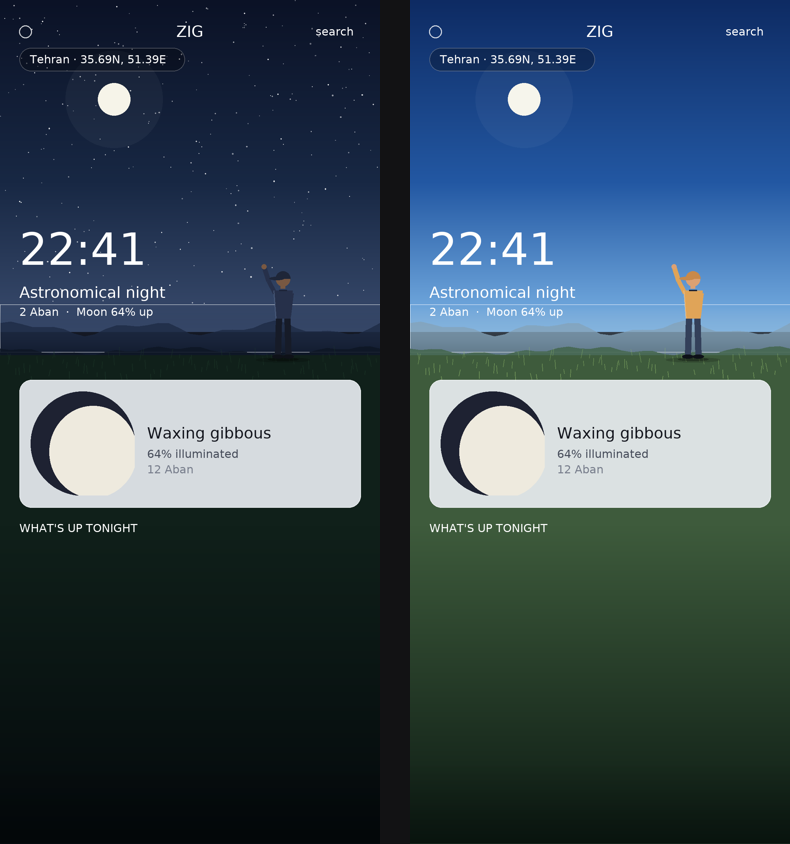
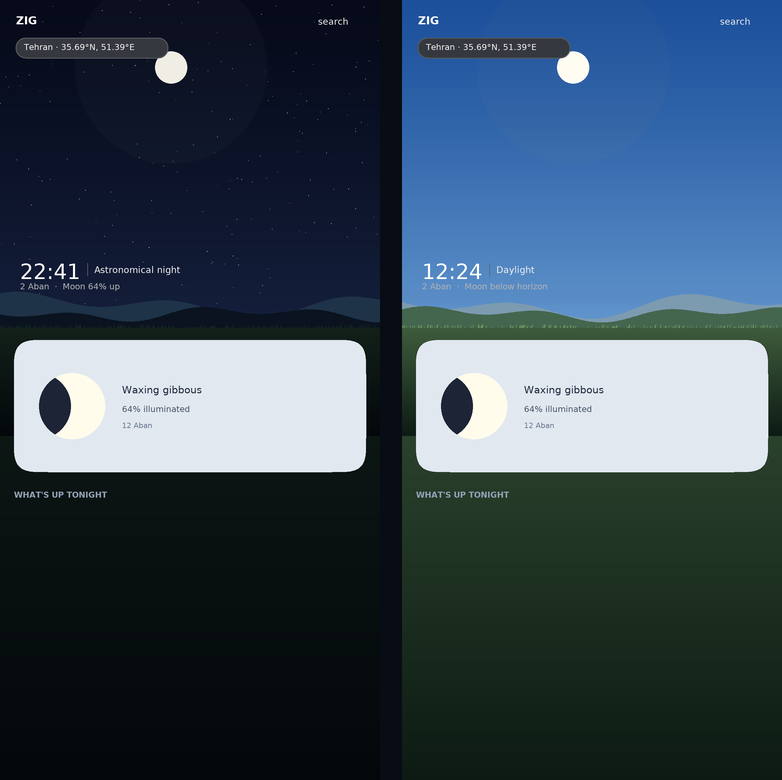
Docs: regenerate the Home scene figure for the squircle card and caption readout
The old figure still showed the removed observer and the 46 sp clock. Redrawn from
the shipped constants (0.70 horizon, 56 % scene, 96 dp card overlap) with the
34 dp squircle Moon card and the new caption-scale readout.

diff --git a/docs/HOME_SKY_SCENE.md b/docs/HOME_SKY_SCENE.md
@@ -10,8 +10,10 @@ moon glow) and the scene clock.
 
 ![Home sky scene, night and daylight](home-sky-scene.png)
 
-*The same composition at astronomical night and at noon, rendered from the constants below. The clouds
-and the mist follow the theme; the Sun altitude drives the light.*
+*The same composition at astronomical night and at noon, rendered from the constants below: the same
+edge-to-edge scene, the readout at caption scale above the horizon, and the Moon card in its 34 dp
+squircle riding over the scene's lower edge. The clouds and the mist follow the theme; the Sun altitude
+drives the light.*
 
 ---
 
